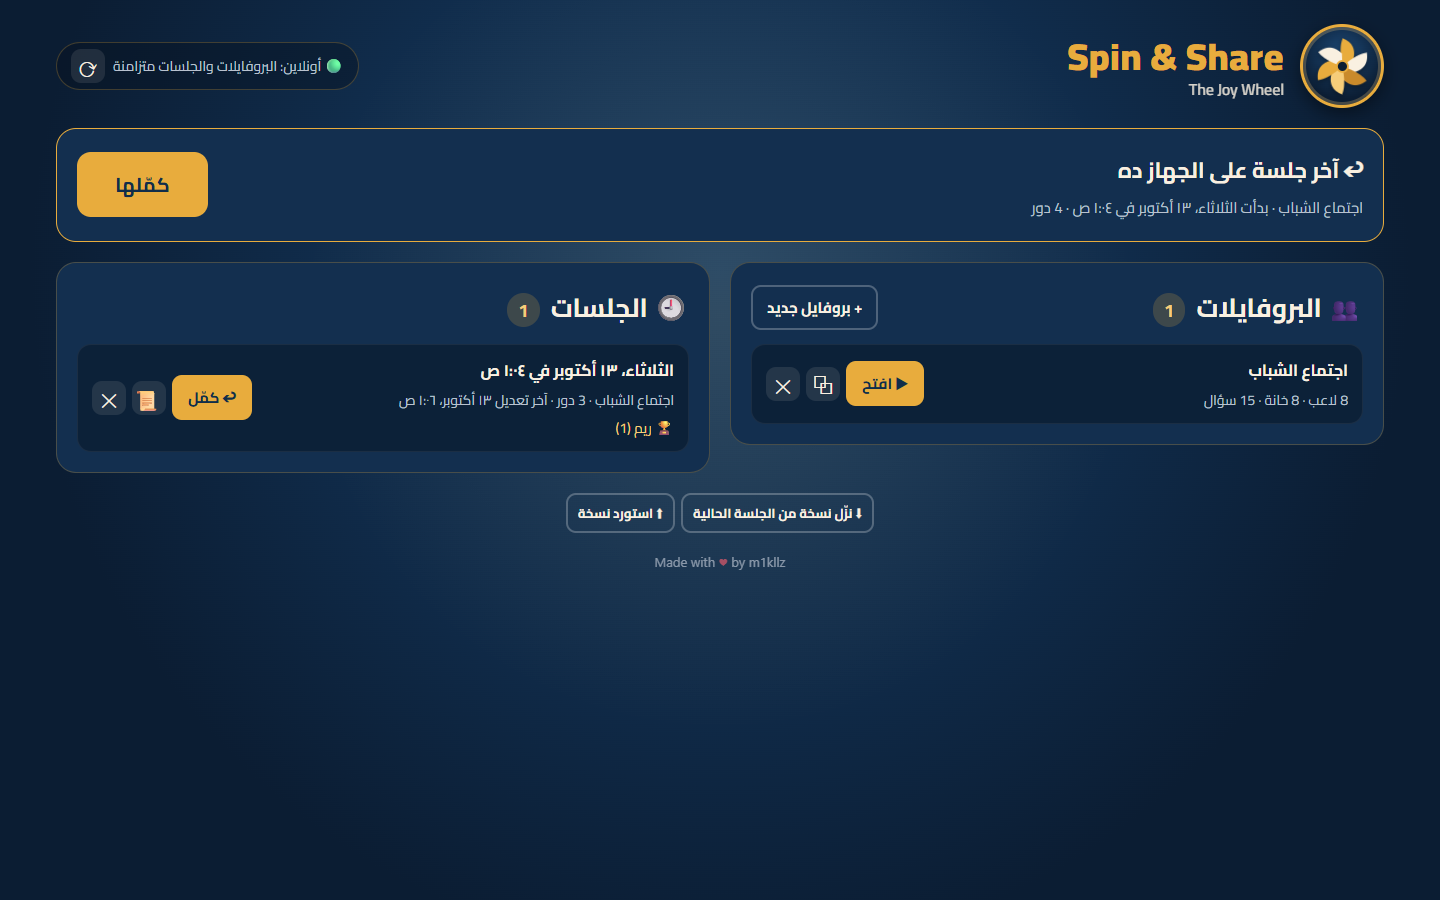
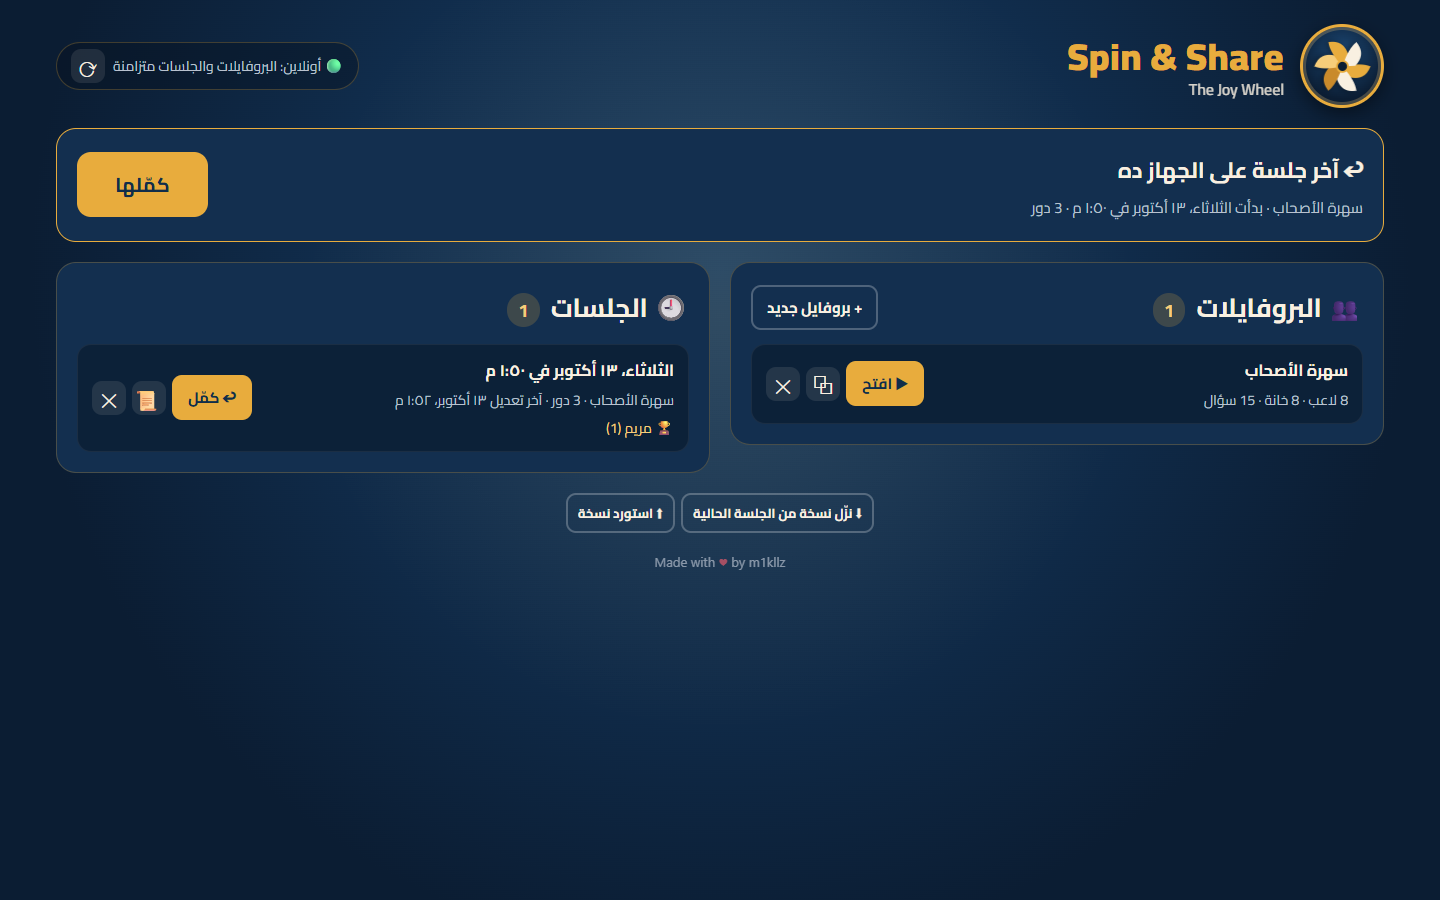
Docs: refresh screenshots with neutral demo content

diff --git a/README.md b/README.md
@@ -44,9 +44,13 @@ Built for a weekly youth meeting: one laptop, one projector, a room full of peop
 
 ## Screenshots
 
-| Pick a card                          | Profiles & sessions                |
-| ------------------------------------ | ---------------------------------- |
-| ![Cards](docs/screenshots/cards.png) | ![Home](docs/screenshots/home.png) |
+| Pick a card                          | Question with revealed answer              |
+| ------------------------------------ | ------------------------------------------ |
+| ![Cards](docs/screenshots/cards.png) | ![Question](docs/screenshots/question.png) |
+
+| Profiles & sessions                | Wheel editor (live preview, emoji picker) |
+| ---------------------------------- | ----------------------------------------- |
+| ![Home](docs/screenshots/home.png) | ![Setup](docs/screenshots/setup.png)      |
 
 ## Keyboard
 
